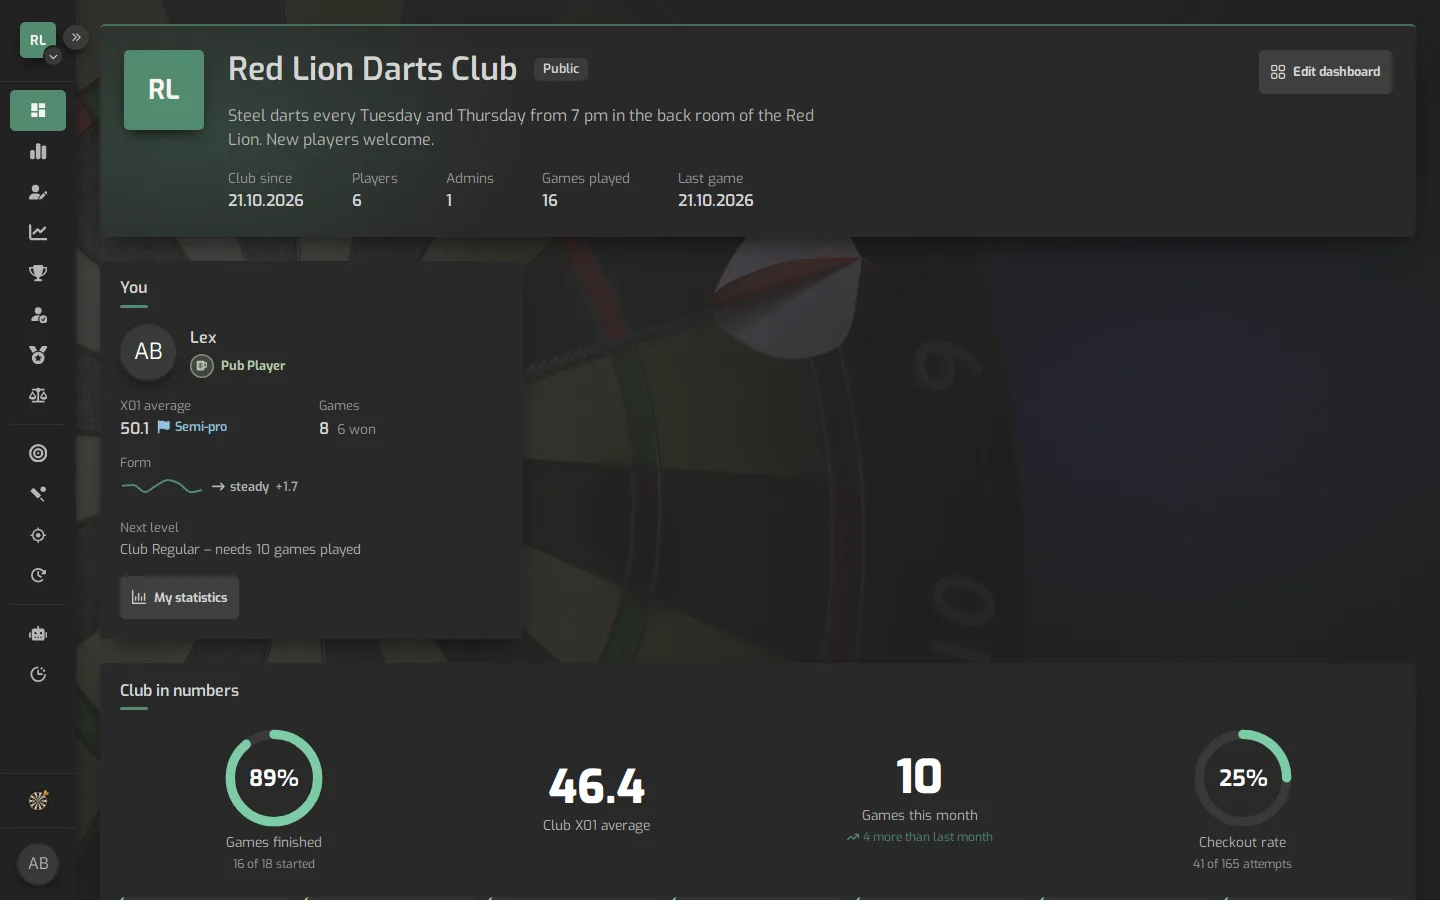
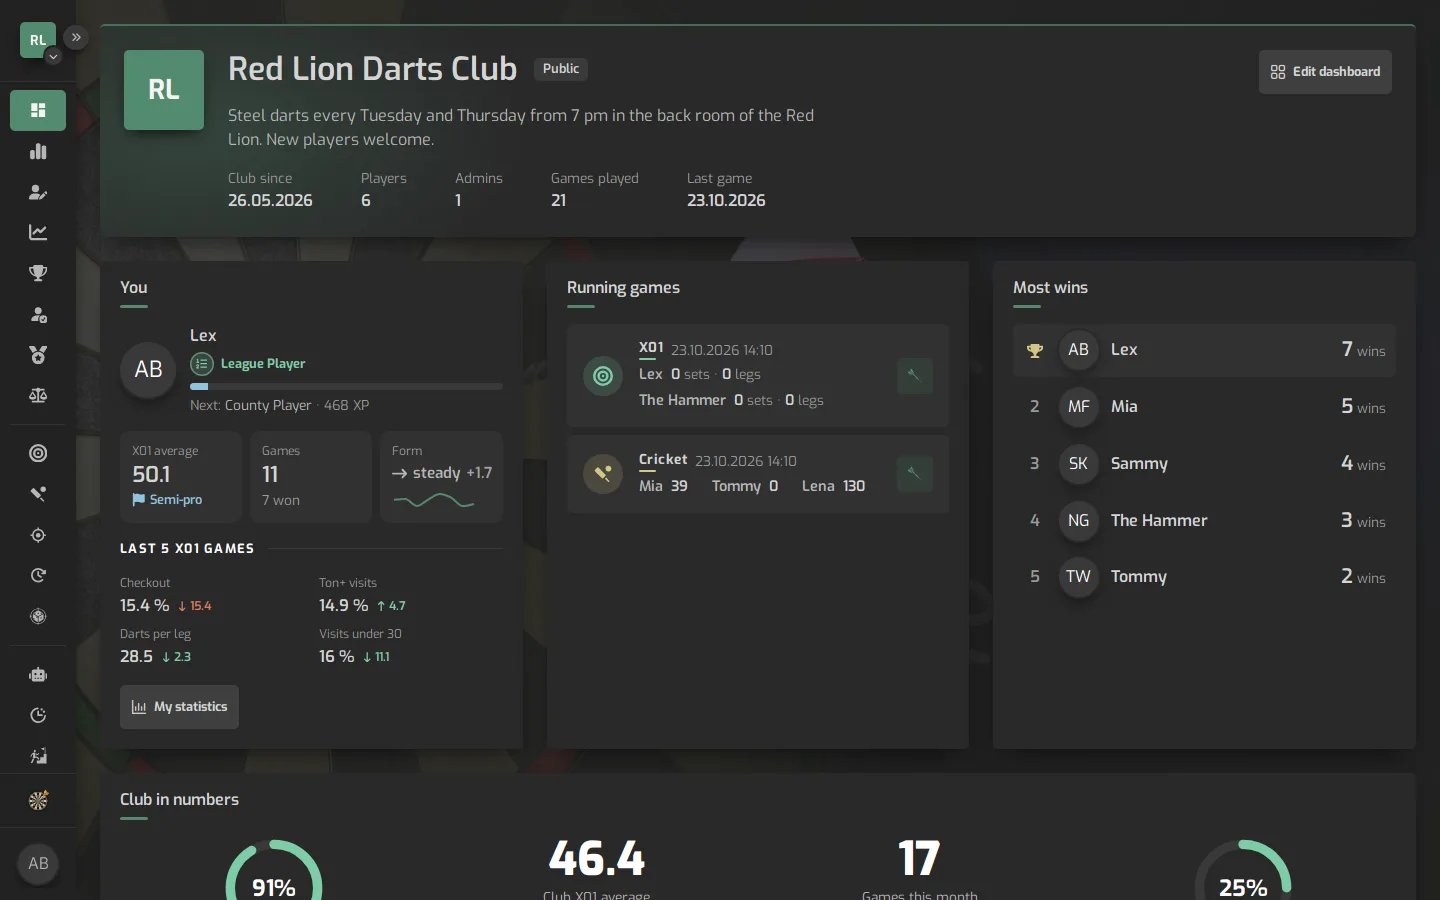
New pictures of the app on the public start page, from the current app: the game headers with Rules, the dashboard as a club arranges it, the statistics of a game and a player; the demo club also plays Shanghai, Golf and Halve-It and trains Bob's 27 and Doubles around the board, dates from before it

diff --git a/scripts/showcase/spread.js b/scripts/showcase/spread.js
@@ -5,8 +5,9 @@ for (let day = new Date(); evenings.length < 40; day = new Date(day.getTime() - 
     if ([2, 4].includes(day.getDay())) evenings.push(new Date(day.getFullYear(), day.getMonth(), day.getDate(), 19, 30));
 }
 evenings.shift();
-for (const name of ['x01', 'crickets', 'eliminations', 'clocks']) {
-    const games = db.getCollection(name).find({ hasWinner: true }).sort({ createdAt: -1 }).toArray();
+for (const name of ['x01', 'crickets', 'eliminations', 'clocks', 'rulesgames', 'rulestrainings']) {
+    // the trainings are only saved once they are over
+    const games = db.getCollection(name).find(name === 'rulestrainings' ? {} : { hasWinner: true }).sort({ createdAt: -1 }).toArray();
     games.forEach((game, index) => {
         const evening = evenings[Math.floor(index / 2)];
         const start = new Date(evening.getTime() + (index % 2) * 40 * 60 * 1000);
@@ -15,3 +16,10 @@ for (const name of ['x01', 'crickets', 'eliminations', 'clocks']) {
     });
     print(`${name}: ${games.length} games spread`);
 }
+
+// the club, its players and the account from before the first of those evenings
+const founded = new Date(evenings.at(-1).getTime() - 14 * 864e5);
+for (const name of ['clubs', 'players', 'users']) {
+    db.getCollection(name).updateMany({}, { $set: { createdAt: founded } });
+}
+print(`club founded ${founded.toISOString().slice(0, 10)}`);
